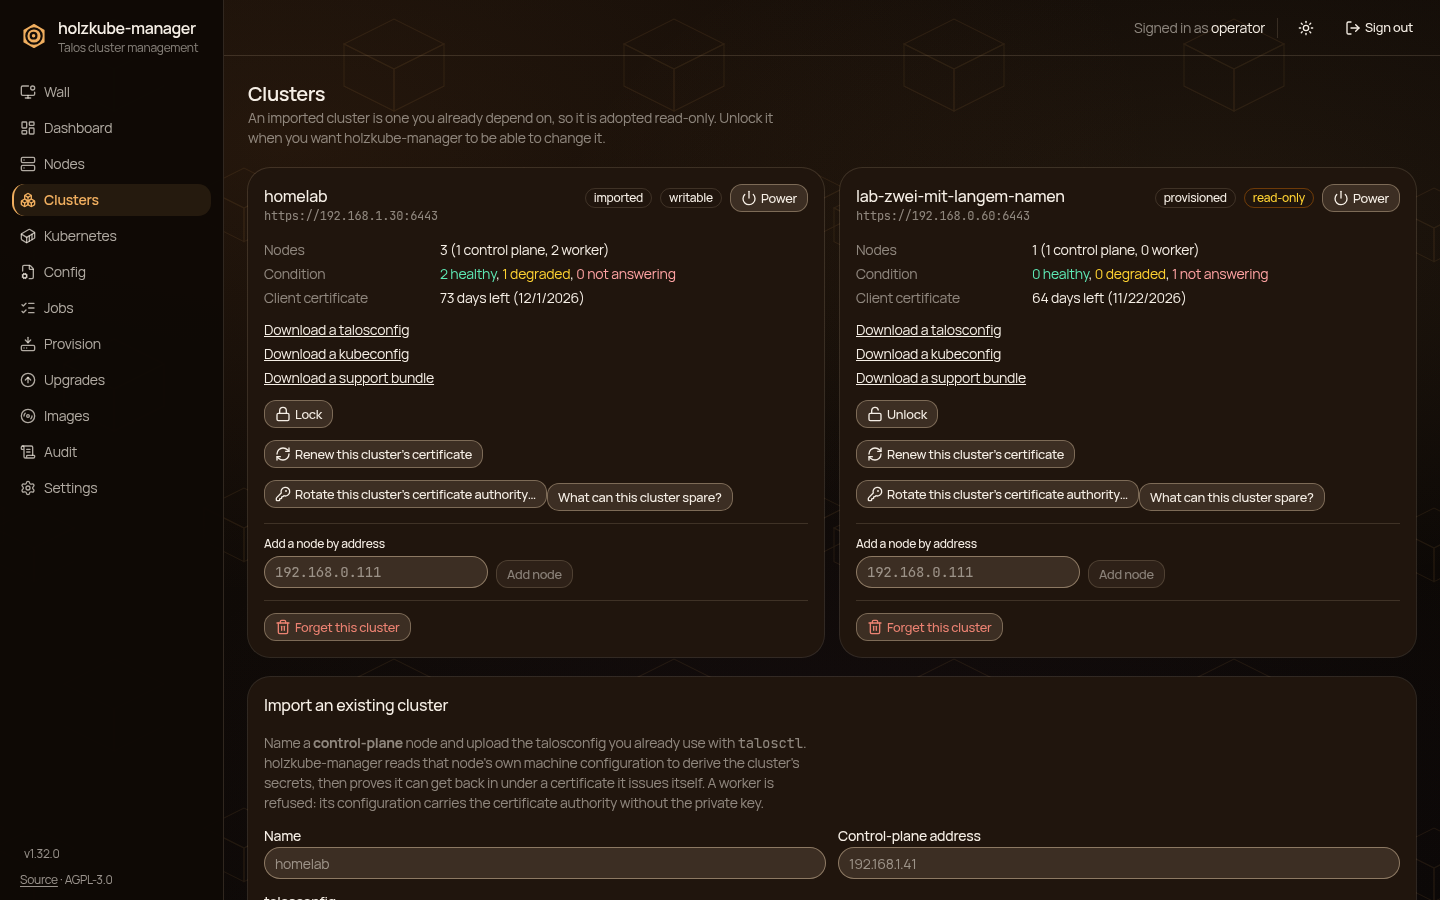
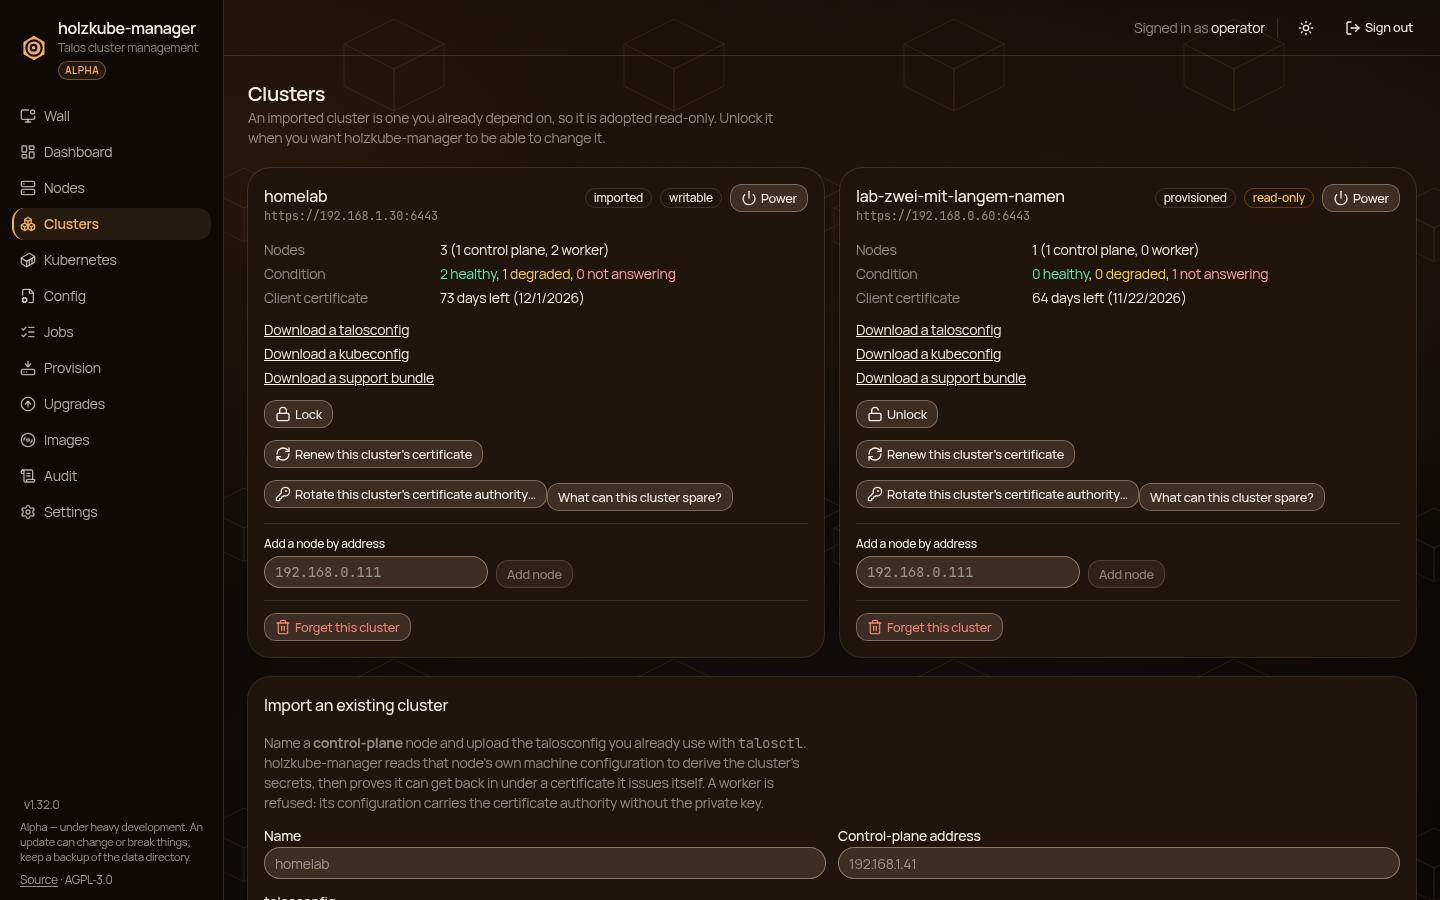
Say everywhere that this is alpha software
The operator's decision: it has to be visible everywhere that the product is
alpha, under heavy development, and that an update can break things.

The wording lives once, in web/src/components/Alpha.tsx: a badge under the
name in the sidebar, the sentence above the licence notice at the foot of
the sidebar, under the name on the sign-in and setup screens, and a word on
the wall's status line. The README carries a status badge and a warning
under its introduction, the guide opens with one, and every release page
gets one from release-notes.py. CLAUDE.md says it stays until the operator
says otherwise, and that --version stays bare because the update script
reads its last field.

The sign-in page's new test was seen red with the notice removed and green
with it back; the wall's status-line test pins the word. The layout guard
passes with the badge and the sentence in the sidebar, and the README's
screenshots are rendered again with them.

Claude-Session: https://claude.ai/code/session_016aD7mCP6Sk6PJDvBcA5NtH

Changed region(s): [[0.0, 0.0622, 0.0938, 0.5911], [0.0, 0.9022, 0.125, 0.9644], [0.0, 0.0311, 0.0312, 0.0622]]

diff --git a/web/src/components/Alpha.tsx b/web/src/components/Alpha.tsx
@@ -1,0 +1,31 @@
+/**
+ * The alpha notice (2026-09-26).
+ *
+ * The operator's words: it has to be visible everywhere that this is alpha
+ * software under heavy development, and that breaking changes can come. So the
+ * wording lives here once, and every surface an operator can reach -- the shell,
+ * both unauthenticated screens and the wall -- shows it: the badge where there
+ * is room for one word, the sentence where there is room for a sentence.
+ *
+ * The version string itself stays plain. `holzkube-managerd --version` is read
+ * by the update script with awk's last field, so a suffix there would make every
+ * host believe an update is always due.
+ */
+
+export const ALPHA_SENTENCE =
+  'Alpha — under heavy development. An update can change or break things; keep a backup of the data directory.'
+
+export function AlphaBadge({ className = '' }: { className?: string }) {
+  return (
+    <span
+      title={ALPHA_SENTENCE}
+      className={`rounded-full border border-primary/40 bg-primary/10 px-1.5 py-px text-[10px] font-semibold uppercase tracking-wider text-primary ${className}`}
+    >
+      Alpha
+    </span>
+  )
+}
+
+export function AlphaNotice({ className = '' }: { className?: string }) {
+  return <p className={className}>{ALPHA_SENTENCE}</p>
+}

diff --git a/web/src/components/Sidebar.tsx b/web/src/components/Sidebar.tsx
@@ -14,6 +14,7 @@ import {
   Server,
   Settings,
 } from 'lucide-react'
+import { AlphaBadge, AlphaNotice } from '@/components/Alpha'
 import { SourceNotice } from '@/components/SourceNotice'
 import { WhatsNew } from '@/components/WhatsNew'
 import { cn } from '@/lib/utils'
@@ -194,6 +195,7 @@ export function Sidebar({ open = false, onNavigate }: { open?: boolean; onNaviga
             holzkube-manager
           </span>
           <p className="text-xs text-muted-foreground">Talos cluster management</p>
+          <AlphaBadge className="mt-1 inline-block" />
         </div>
       </div>
 
@@ -242,6 +244,7 @@ export function Sidebar({ open = false, onNavigate }: { open?: boolean; onNaviga
           "what am I looking at" rather than a place to navigate to. */}
       <div className="mt-auto px-2 pt-3">
         <WhatsNew />
+        <AlphaNotice className="mt-1 text-[11px] leading-snug text-sidebar-foreground/60" />
       </div>
 
       {/* AGPL section 13: the running instance has to offer its own source. */}

diff --git a/web/src/routes/login.tsx b/web/src/routes/login.tsx
@@ -2,6 +2,7 @@ import { useQueryClient } from '@tanstack/react-query'
 import { createRoute, useNavigate } from '@tanstack/react-router'
 import { type FormEvent, useEffect, useState } from 'react'
 import { api, oidcPath } from '@/api'
+import { AlphaNotice } from '@/components/Alpha'
 import { SourceNotice } from '@/components/SourceNotice'
 import { Button } from '@/components/ui/button'
 import { Card, CardContent, CardDescription, CardHeader, CardTitle } from '@/components/ui/card'
@@ -109,6 +110,7 @@ export function LoginPage() {
       <div className="flex flex-col items-center text-center">
         <img src="/favicon.svg" alt="" className="mb-2 size-12" />
         <span className="font-heading text-xl font-semibold tracking-tight">holzkube-manager</span>
+        <AlphaNotice className="mt-1 max-w-sm text-xs text-muted-foreground" />
       </div>
       <Card className="w-full max-w-md">
         <CardHeader>

diff --git a/web/src/routes/setup.tsx b/web/src/routes/setup.tsx
@@ -2,6 +2,7 @@ import { useQueryClient } from '@tanstack/react-query'
 import { createRoute, useNavigate } from '@tanstack/react-router'
 import { type FormEvent, useState } from 'react'
 import { api } from '@/api'
+import { AlphaNotice } from '@/components/Alpha'
 import { SourceNotice } from '@/components/SourceNotice'
 import { Button } from '@/components/ui/button'
 import { Card, CardContent, CardDescription, CardHeader, CardTitle } from '@/components/ui/card'
@@ -94,6 +95,7 @@ function SetupPage() {
         <img src="/favicon.svg" alt="" className="mb-2 size-12" />
         <span className="font-heading text-xl font-semibold tracking-tight">holzkube-manager</span>
         <p className="text-sm text-muted-foreground">Talos cluster management</p>
+        <AlphaNotice className="mt-2 max-w-sm text-xs text-muted-foreground" />
       </div>
       <Card className="w-full max-w-md">
         <CardHeader>

diff --git a/web/src/routes/wall.test.tsx b/web/src/routes/wall.test.tsx
@@ -169,7 +169,9 @@ describe('the wall', () => {
     // read by the time it appears.
     // And the size of the cluster beside it, so the headline has a denominator:
     // "everything is running" says much more when everything is 132 things.
-    expect(await screen.findByText(/^as of \d+s ago · 1 workload, 1 node$/)).toBeInTheDocument()
+    expect(
+      await screen.findByText(/^as of \d+s ago · 1 workload, 1 node · holzkube-manager alpha$/),
+    ).toBeInTheDocument()
   })
 
   it('stops looking confident when the answer is old', async () => {

diff --git a/web/src/routes/login.test.tsx b/web/src/routes/login.test.tsx
@@ -95,3 +95,13 @@ describe('the sign-in page on an SSO-only address', () => {
     expect(screen.queryByRole('link', { name: /192\.168\.1\.30/ })).toBeNull()
   })
 })
+
+describe('the sign-in page', () => {
+  it('says the software is alpha before anybody signs in', async () => {
+    vi.spyOn(api, 'status').mockResolvedValue(statusOf({ password_login: true }))
+
+    renderLogin()
+
+    expect(await screen.findByText(/^Alpha — under heavy development\./)).toBeInTheDocument()
+  })
+})

diff --git a/web/src/routes/wall.tsx b/web/src/routes/wall.tsx
@@ -360,6 +360,7 @@ function Headline({ wall, stale, ageMs }: { wall: Wall; stale: boolean; ageMs: n
             : `as of ${readableAge(ageMs)} ago`}
         {' · '}
         {plural(wall.workloads.length, 'workload')}, {plural(wall.nodes.length, 'node')}
+        {' · holzkube-manager alpha'}
       </p>
     </div>
   )

diff --git a/.github/release-notes.py b/.github/release-notes.py
@@ -35,7 +35,16 @@ def render(tag: str, annotation: str = "") -> str:
     if not entry.get("changes"):
         sys.exit(f"::error::the changelog entry for {tag} lists no changes")
 
-    lines = [heading(tag), "", f"_{entry['date']}_", ""]
+    lines = [
+        heading(tag),
+        "",
+        f"_{entry['date']}_",
+        "",
+        "> [!WARNING]",
+        "> holzkube-manager is **alpha** software under heavy development: this release "
+        "can change or break things. Back up the data directory before updating.",
+        "",
+    ]
     for change in entry["changes"]:
         lines.append(f"- {change.get('icon', '•')} {change['text']}")
     annotation = annotation.strip()

diff --git a/README.md b/README.md
@@ -3,6 +3,7 @@
 </p>
 
 <p align="center">
+  <img src="https://img.shields.io/badge/status-alpha-ec8272?style=flat-square&labelColor=150e08" alt="Status: alpha">
   <a href="https://github.com/holzcloud/holzkube-manager/releases/latest"><img src="https://img.shields.io/github/v/release/holzcloud/holzkube-manager?style=flat-square&color=f0ae5f&labelColor=150e08" alt="Latest release"></a>
   <a href="https://github.com/holzcloud/holzkube-manager/actions/workflows/ci.yml"><img src="https://img.shields.io/github/actions/workflow/status/holzcloud/holzkube-manager/ci.yml?branch=main&style=flat-square&labelColor=150e08&label=CI" alt="CI"></a>
   <img src="https://img.shields.io/badge/Talos-v1.12%20–%20v1.14-f0ae5f?style=flat-square&labelColor=150e08" alt="Talos v1.12 to v1.14">
@@ -23,6 +24,12 @@ cluster rather than in it — a Raspberry Pi on the same network is enough. It
 speaks the Talos machine API and the Kubernetes API directly and reads what it
 shows live from the cluster, so a screen never says more than the cluster just
 did.
+
+> [!WARNING]
+> **holzkube-manager is alpha software under heavy development.** Any release
+> can change or remove features, the API and the data directory's format, and
+> an update can break things. Keep a backup of the data directory (see the
+> [guide](docs/guide.md#backups)) and read the release notes before updating.
 
 ![Live hardware of a node over the last 24 hours](docs/screenshots/node-hardware.png)
 

diff --git a/CLAUDE.md b/CLAUDE.md
@@ -51,6 +51,16 @@ not a commit list -- is what the app's "What's new" panel shows and, through
 refuses a tag without one, and `verify-release.py` fails a published release
 whose page does not carry it.
 
+## Alpha, and said so everywhere
+
+Since 2026-09-26 the product is declared **alpha**: under heavy development,
+with breaking changes possible in any release. That is said in the app (the
+badge and sentence in `web/src/components/Alpha.tsx`, on the shell, both
+unauthenticated screens and the wall), at the top of the README and the guide,
+and on every release page (`.github/release-notes.py`). It stays until the
+operator says otherwise. `holzkube-managerd --version` stays a bare version:
+the update script reads its last field.
+
 ## What that means for verification
 
 **Where a session runs decides what it can check, so say which one it was.**

diff --git a/docs/guide.md b/docs/guide.md
@@ -3,6 +3,11 @@
 Everything about building, running and operating holzkube-manager, in depth.
 The [README](../README.md) is the short tour; this is the manual it points to.
 
+> [!WARNING]
+> **Alpha software, under heavy development.** Any release can change or break
+> features, the API, the command line and the data directory's format, without
+> a deprecation period. Back up the data directory before every update.
+
 ## Build
 
 One command produces both binaries:
